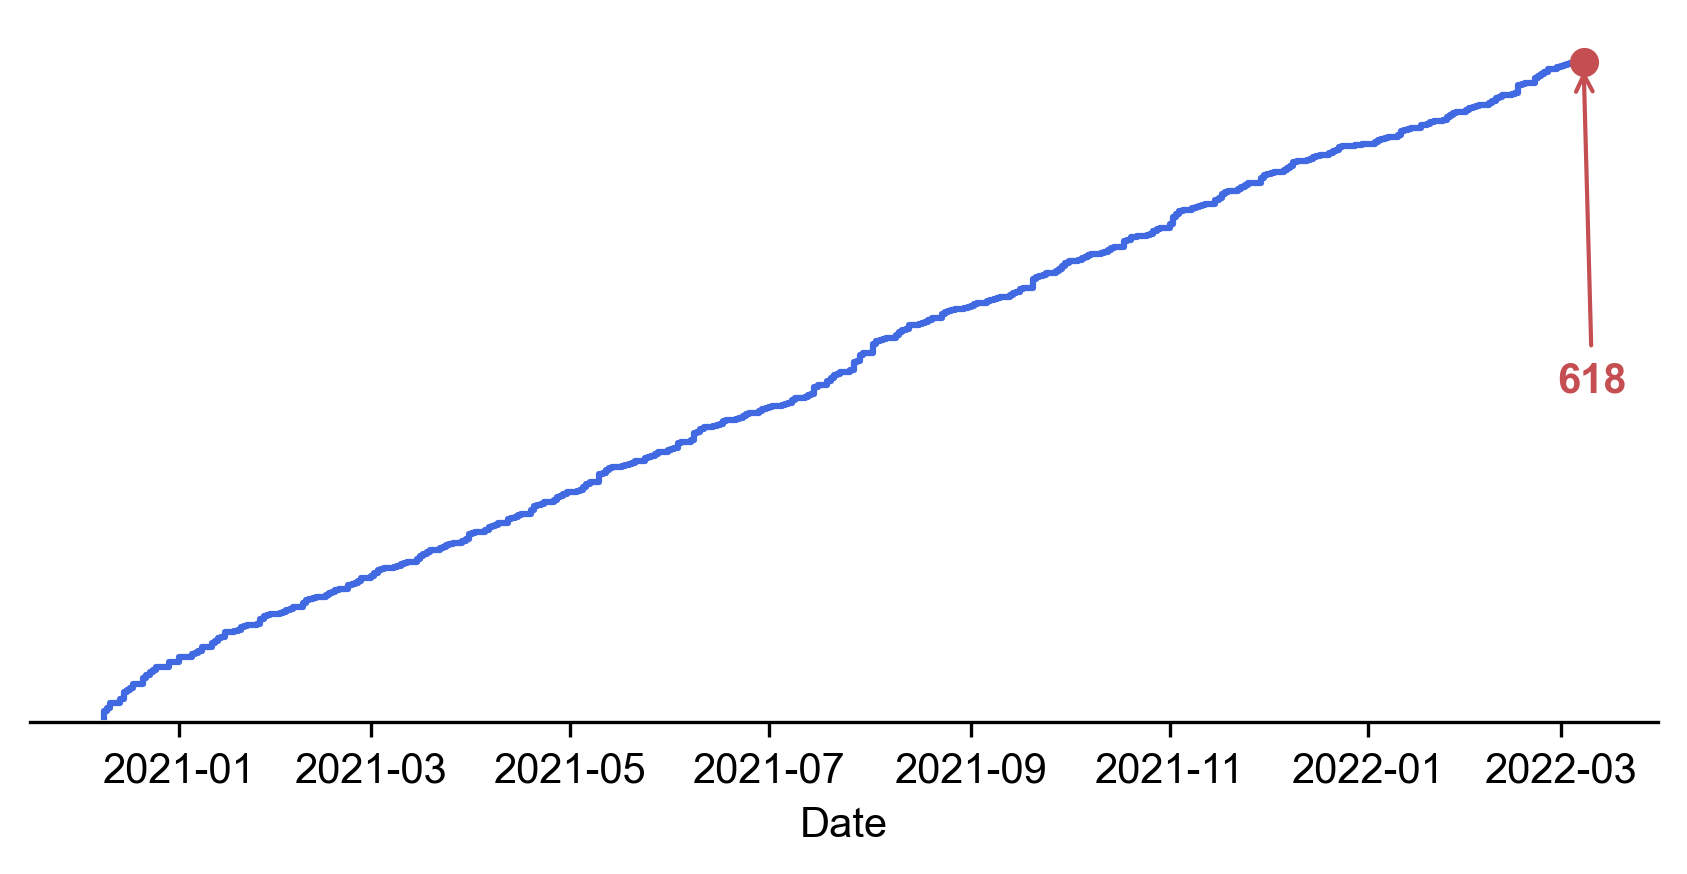
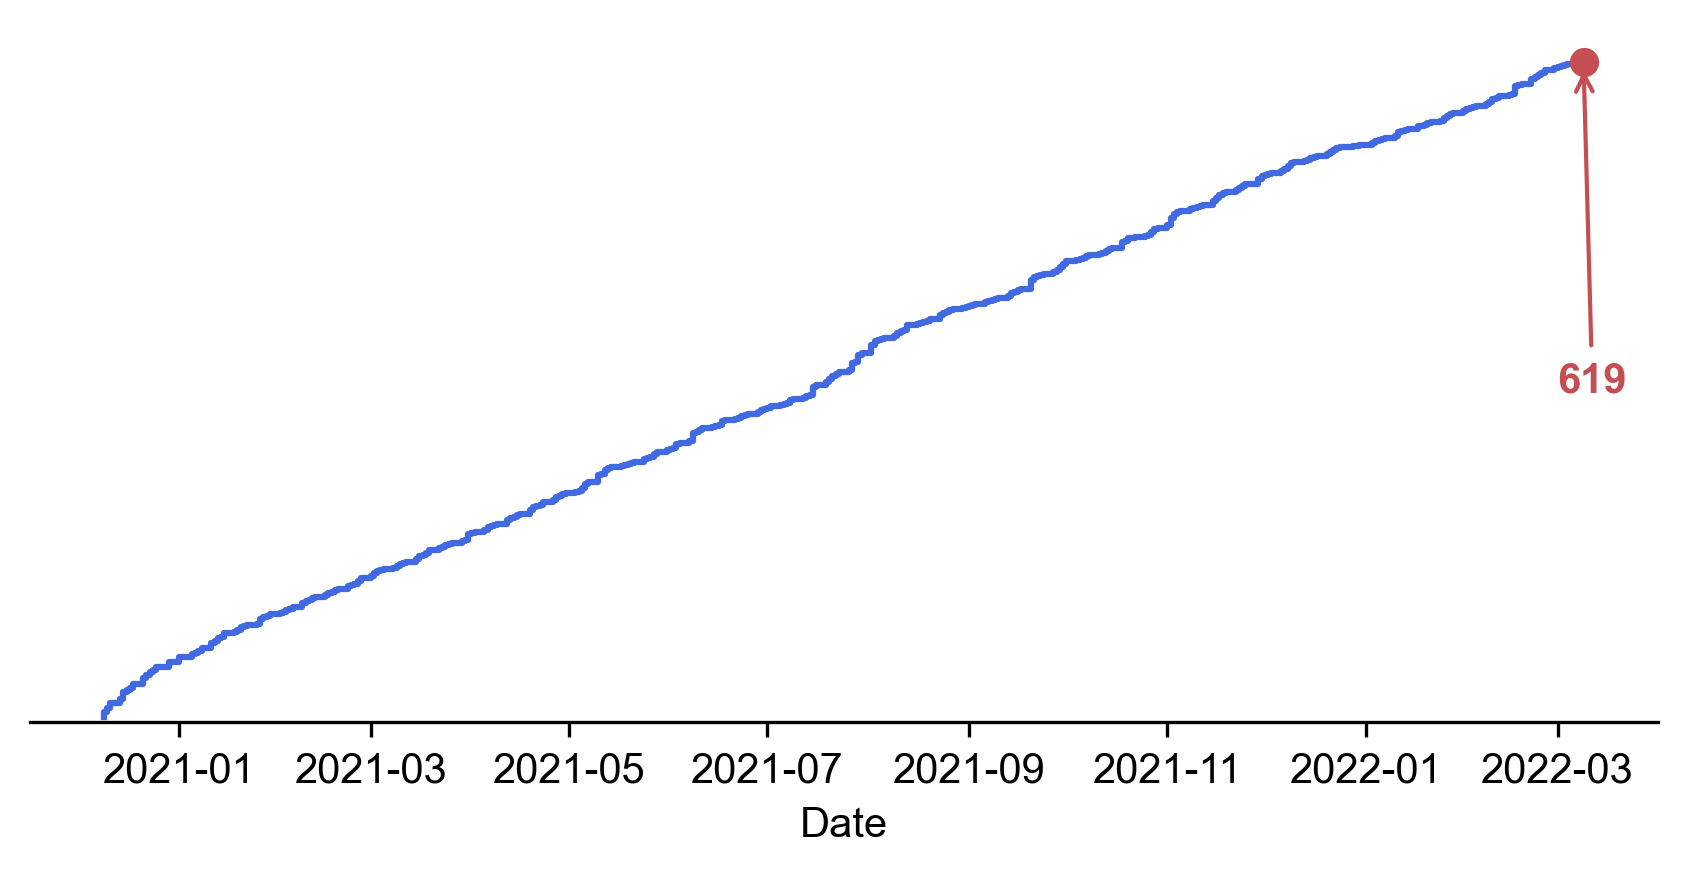
2022-03-09

diff --git a/2022/03/AstroPH-2022-03.md b/2022/03/AstroPH-2022-03.md
@@ -59,5 +59,11 @@
 
 ## 2022-03-09
 
+1. [Basics of Fourier Analysis for High-Energy Astronomy](https://arxiv.org/abs/2203.04106)
 
+   > Time Domain, Fourier
+
+   傅立叶分析入门理论基础。介绍了连续/离散傅立叶变换，加窗，FFT，功率谱，自相关，交叉光谱，双相干，Lomb-Scargle，短时傅立叶变换，小波和其他技术。
+
+## 2022-03-10
 
